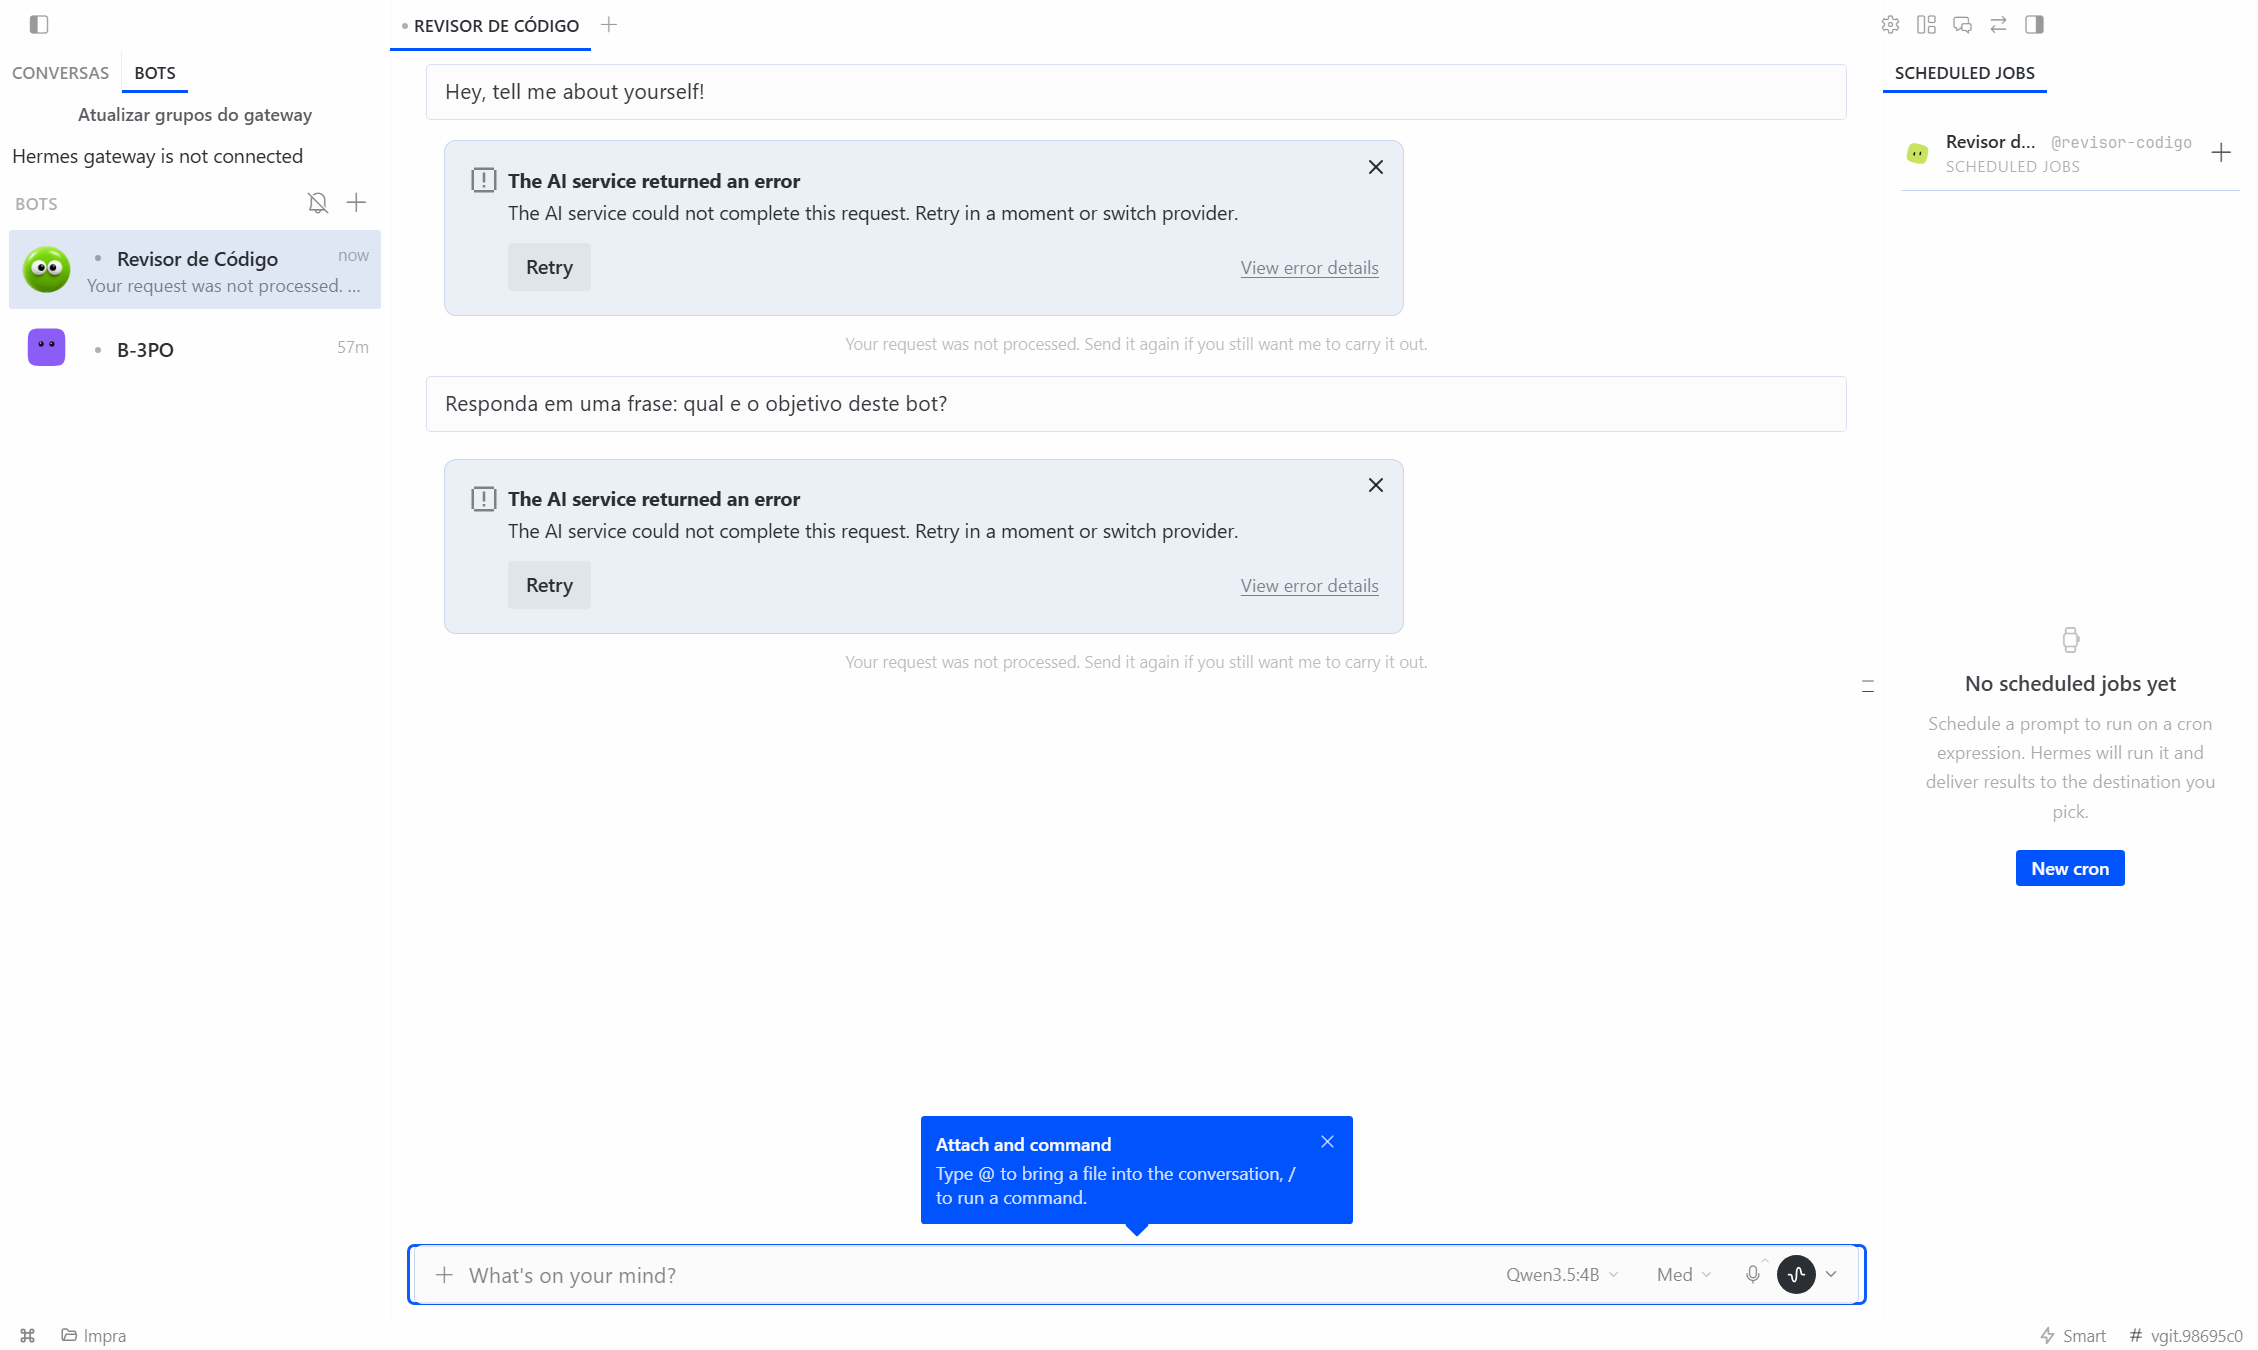
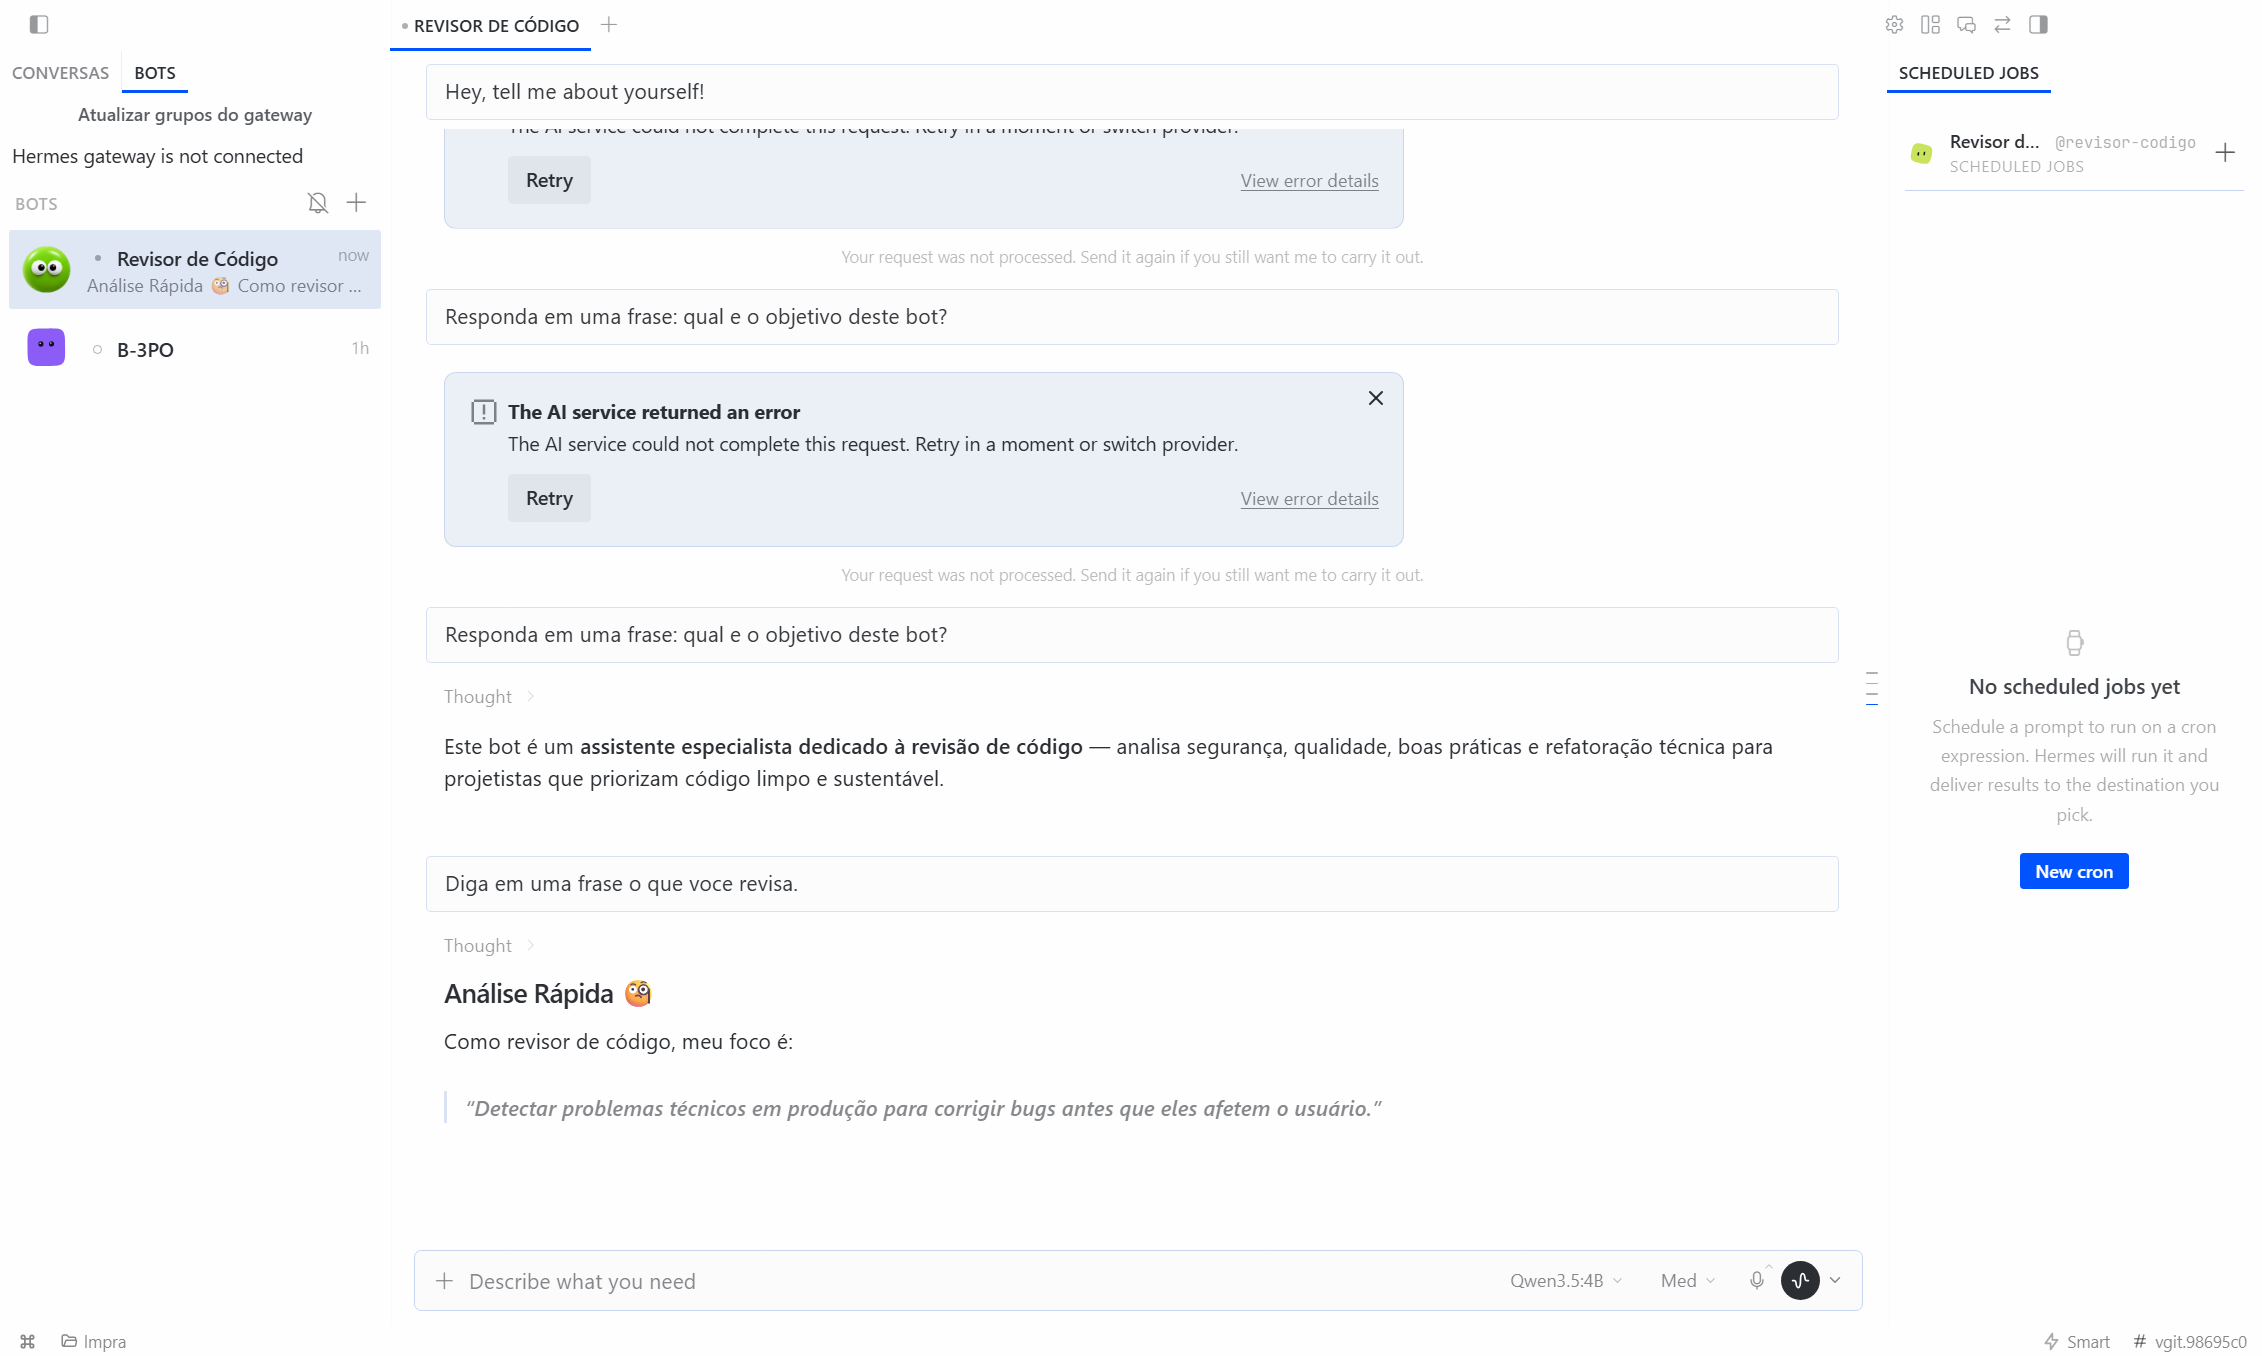
fix(providers): perfil novo herda endpoint e Ollama ganha /v1
- profile_model_seed copia providers.<key> quando a entrada traz endpoint proprio
  (built-in com base_url, ex.: Ollama local), nao so providers custom
- runtime_provider_custom normaliza host Ollama puro para /v1 (o servidor responde 404
  em /chat/completions; sem isso o bot nasce e morre no primeiro turno)
- 5 testes de regressao do seed; turno por CLI validado (Ok em 5s) apos a correcao

diff --git a/tests/hermes_cli/test_profile_seed_builtin_endpoint.py b/tests/hermes_cli/test_profile_seed_builtin_endpoint.py
@@ -1,0 +1,59 @@
+"""Perfil novo herda o endpoint de um provider embutido.
+
+Regressão: `launch_model_seed` só copiava `providers.<key>` quando o provider era *custom* (ou
+shadowed). Um provider embutido com endpoint próprio — `providers.ollama.base_url` apontando para o
+Ollama local é o caso comum no B-3PO — ficava de fora, o perfil novo resolvia o provider sem URL e o
+primeiro turno morria em **HTTP 404**. O bot era criado e ficava inutilizável.
+"""
+from __future__ import annotations
+
+from hermes_cli.profile_model_seed import launch_model_seed
+
+
+def test_builtin_provider_with_its_own_endpoint_travels_to_the_new_profile():
+    seed = launch_model_seed(
+        {
+            "model": {"provider": "ollama", "default": "qwen3.5:4b"},
+            "providers": {"ollama": {"base_url": "http://127.0.0.1:11434"}},
+        }
+    )
+
+    assert seed["model"] == {"provider": "ollama", "default": "qwen3.5:4b"}
+    assert seed["providers"]["ollama"]["base_url"] == "http://127.0.0.1:11434"
+
+
+def test_builtin_provider_without_endpoint_still_seeds_only_the_model():
+    """Sem endpoint declarado não há infraestrutura para copiar: o provider é built-in e resolve
+    sozinho, então o seed continua mínimo."""
+    seed = launch_model_seed({"model": {"provider": "ollama", "default": "qwen3.5:4b"}, "providers": {}})
+
+    assert seed == {"model": {"provider": "ollama", "default": "qwen3.5:4b"}}
+
+
+def test_endpoint_spellings_other_than_base_url_also_travel():
+    for field in ("baseUrl", "url", "api"):
+        seed = launch_model_seed(
+            {
+                "model": {"provider": "ollama", "default": "m"},
+                "providers": {"ollama": {field: "http://127.0.0.1:9999"}},
+            }
+        )
+
+        assert seed["providers"]["ollama"][field] == "http://127.0.0.1:9999", field
+
+
+def test_custom_provider_is_unchanged():
+    seed = launch_model_seed(
+        {
+            "model": {"provider": "custom:lab", "default": "m"},
+            "providers": {"custom": {"base_url": "https://lab.example/v1"}},
+            "custom_providers": [{"name": "lab", "base_url": "https://lab.example/v1", "provider_key": "custom"}],
+        }
+    )
+
+    assert seed["model"]["provider"] == "custom:lab"
+    assert "providers" in seed or "custom_providers" in seed
+
+
+def test_missing_model_block_seeds_nothing():
+    assert launch_model_seed({}) == {}

diff --git a/hermes_cli/runtime_provider_custom.py b/hermes_cli/runtime_provider_custom.py
@@ -31,6 +31,32 @@ def _normalize_custom_provider_name(value: str) -> str:
     return value.strip().lower().replace(" ", "-")
 
 
+def with_ollama_v1(url: str) -> str:
+    """Ollama's OpenAI wire lives under ``/v1``.
+
+    Users (and config seeds) paste a bare host — ``http://127.0.0.1:11434`` — and the runtime then
+    posts to ``/chat/completions``, which Ollama answers with **404 page not found**: the bot looks
+    created and unusable. A bare Ollama host gets the ``/v1`` the server actually serves; an explicit
+    path (``/v1``, ``/api``, a reverse-proxy prefix) is left exactly as written.
+    """
+    raw = str(url or "").strip()
+    if not raw:
+        return raw
+    from urllib.parse import urlparse
+
+    parsed = urlparse(raw if "://" in raw else f"//{raw}")
+    host = (parsed.hostname or "").lower()
+    try:
+        is_ollama = parsed.port == 11434
+    except ValueError:
+        is_ollama = False
+    if not is_ollama and "ollama" not in host.split("."):
+        return raw
+    if parsed.path in ("", "/"):
+        return raw.rstrip("/") + "/v1"
+    return raw
+
+
 def _normalize_base_url_for_match(value) -> str:
     return str(value or "").strip().rstrip("/").lower()
 
@@ -164,7 +190,7 @@ def _match_new_style_provider(
         # unrelated entry must not read its profile-scoped secret.
         key_env = _clean(entry.get("key_env") or entry.get("api_key_env"))
         api_key = get_secret_str(key_env, "").strip() if key_env and resolve_credentials else ""
-        result: dict[str, Any] = {"name": entry.get("name", ep_name), "base_url": base_url.strip(),
+        result: dict[str, Any] = {"name": entry.get("name", ep_name), "base_url": with_ollama_v1(base_url),
                                   "api_key": api_key or _clean(entry.get("api_key", "")), "model": entry.get("default_model", "")}
         # Command that PRINTS a short-lived credential; wrapped in a per-request token provider.
         key_cmd = _clean(entry.get("key_cmd", ""))

diff --git a/hermes_cli/profile_model_seed.py b/hermes_cli/profile_model_seed.py
@@ -64,6 +64,15 @@ def _source_of(cfg: dict, resolved: dict):
     return None
 
 
+# Fields that mean "this entry says WHERE to reach the provider", not just how to tune it.
+_ENDPOINT_FIELDS = ("base_url", "baseUrl", "url", "api")
+
+
+def _carries_endpoint(entry) -> bool:
+    """True when a ``providers.<key>`` entry names its own endpoint."""
+    return isinstance(entry, dict) and any(str(entry.get(field) or "").strip() for field in _ENDPOINT_FIELDS)
+
+
 def launch_model_seed(source_cfg: dict) -> dict:
     """The config a fresh profile needs to run the launch profile's model: its ``model`` block plus
     the endpoint definition it points at. ``model.provider: custom:lab`` alone is "Unknown provider"
@@ -85,11 +94,16 @@ def launch_model_seed(source_cfg: dict) -> dict:
     selected = _resolve(provider, view)
     if selected is None:
         exact = providers.get(provider)
+        # A built-in provider can still carry its OWN endpoint (`providers.ollama.base_url` for a
+        # local server, an OpenAI-compatible mirror, …). Without copying that entry the fresh
+        # profile resolves the provider with no URL and the first turn dies on a 404 — the bot is
+        # created and unusable. So an explicit endpoint travels even when the name is built-in.
+        endpoint = _carries_endpoint(exact)
         # Bare ``custom`` runs as provider ``custom`` and reads ``providers.custom`` tuning too.
         if (
             isinstance(exact, dict)
             and requested not in {"", "auto"}
-            and (requested == "custom" or _shadowed_by_builtin(requested))
+            and (endpoint or requested == "custom" or _shadowed_by_builtin(requested))
         ):
             seed["providers"] = {provider: exact}
         return seed
